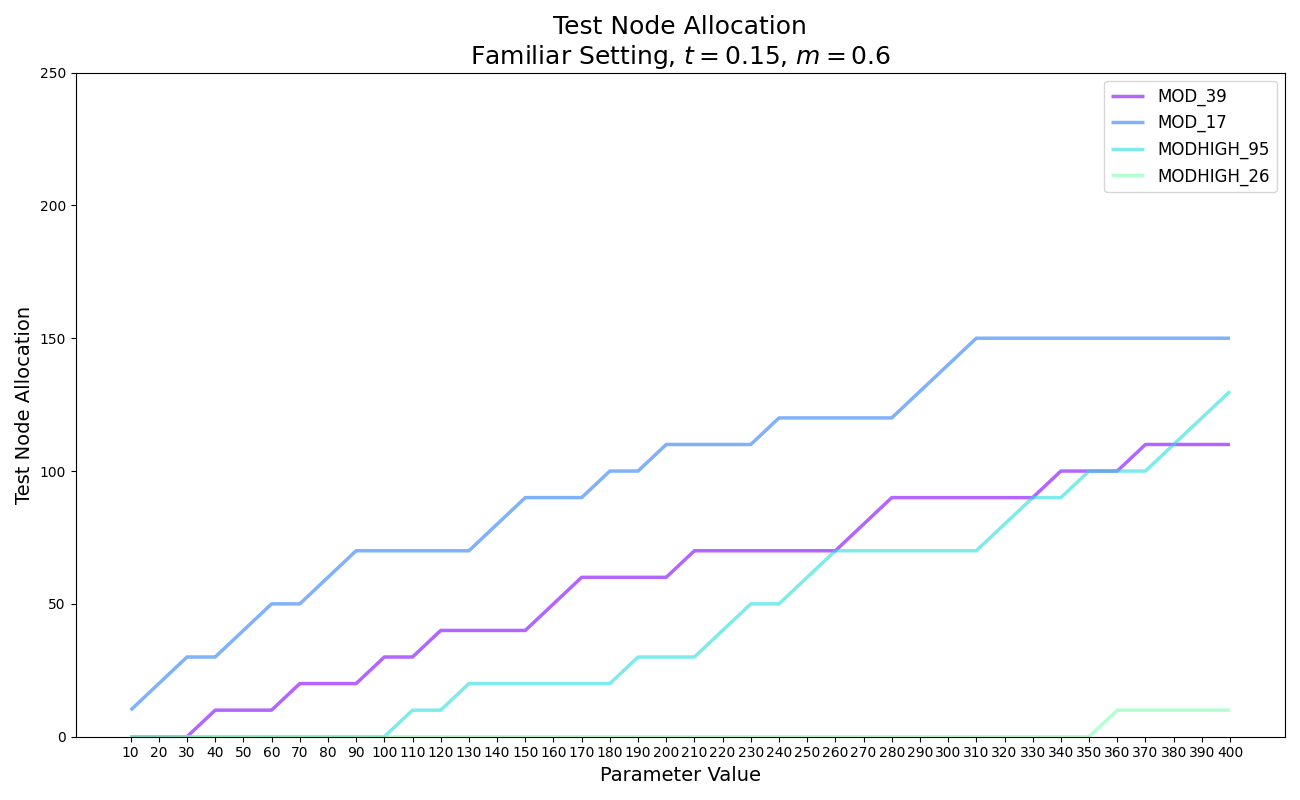
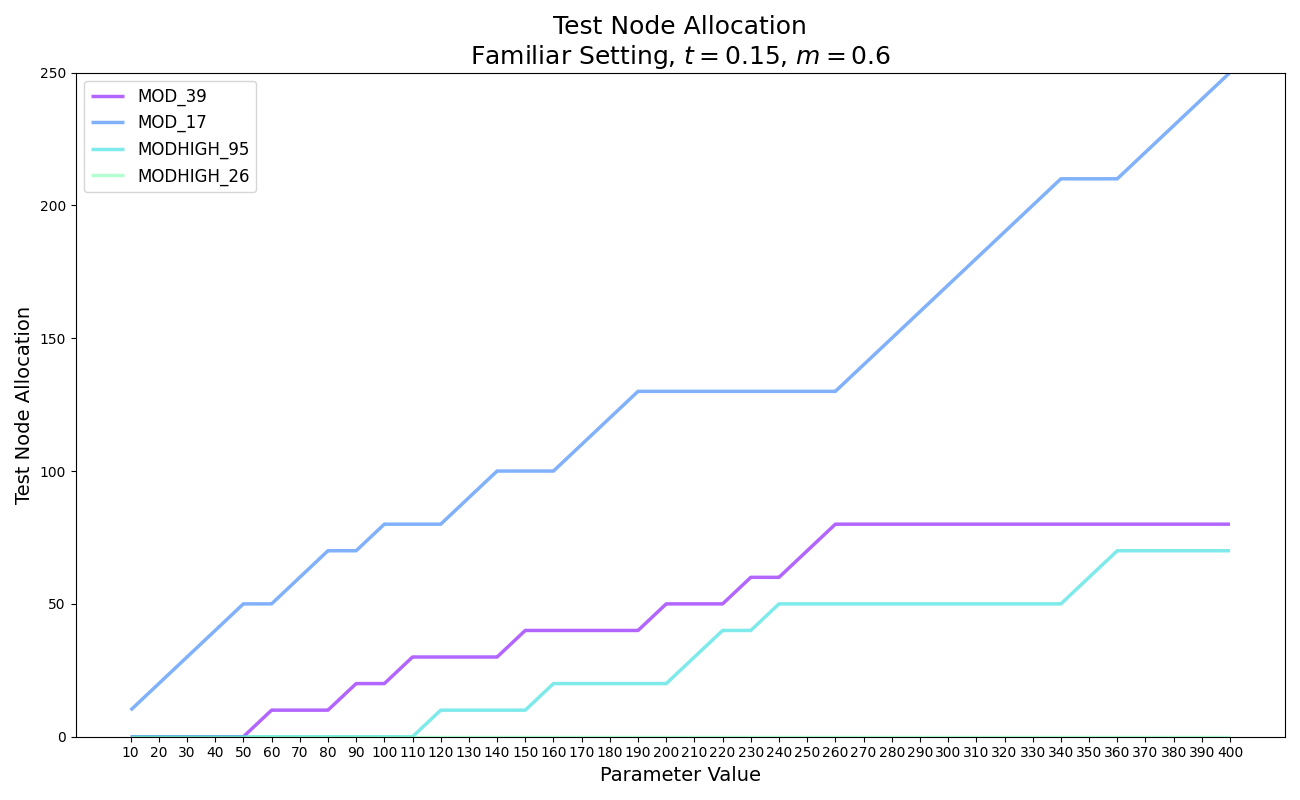
streamline draws allocation

diff --git a/bayesianexperimentation/bayesianexperimentaldesign.py b/bayesianexperimentation/bayesianexperimentaldesign.py
@@ -2637,9 +2637,8 @@ def STUDY_baselineloss():
     csdict_fam['TNnames'] = ['MOD_39', 'MOD_17', 'MODHIGH_95', 'MODHIGH_26']
     csdict_fam['SNnames'] = ['MNFR ' + str(i + 1) for i in range(numSN)]
 
-    # Build prior
+    # Build prior; establish test node risk according to assessment by regulators
     SNpriorMean = np.repeat(sps.logit(0.1), numSN)
-    # Establish test node risk according to assessment by regulators
     TNpriorMean = sps.logit(np.array([0.1, 0.1, 0.15, 0.15]))
     TNvar, SNvar = 2., 4.  # Variances for use with prior
     csdict_fam['prior'] = prior_normal_assort(np.concatenate((SNpriorMean, TNpriorMean)),
@@ -2690,25 +2689,28 @@ def STUDY_baselineloss():
         paramdict.update({'lossmatrix':lossmatrix})
         _, lossmatrix = lf.add_cand_neighbors(paramdict, csdict_fam['postSamples'], currtruthdraws)
         list_11k.append(sampf.baseloss(lossmatrix))
-        # Plot distribution of gap from 5k
-        if np.mod(rep+1,5)==0:
-            list_6k_diffs = [list_5k[i]-list_6k[i] for i in range(len(list_5k))]
-            list_10k_diffs = [list_5k[i] - list_10k[i] for i in range(len(list_5k))]
-            list_11k_diffs = [list_5k[i] - list_11k[i] for i in range(len(list_5k))]
-            plt.hist(list_6k_diffs, label='5k+1k', alpha=0.2)
-            plt.hist(list_10k_diffs, label='10k', alpha=0.2)
-            plt.hist(list_11k_diffs, label='10k+1k', alpha=0.2)
-            plt.legend()
-            plt.show()
-            plt.close()
 
+    # Plot distribution of gap from 5k
+    list_6k_diffs = [list_5k[i]-list_6k[i] for i in range(len(list_5k))]
+    list_10k_diffs = [list_5k[i] - list_10k[i] for i in range(len(list_5k))]
+    list_11k_diffs = [list_5k[i] - list_11k[i] for i in range(len(list_5k))]
 
-    # OPTIONAL store runs for later use
-    # np.save(os.path.join('casestudyoutputs', '17MAY', 'utilmatlist_familiar'), np.array(utilMatList))
-    # np.save(os.path.join('casestudyoutputs', '16MAY', 'utilmatlist_familiar'), np.array(utilMatList))
-    # OPTIONAL retrieve allocation
-    # utilMatList = np.load(os.path.join('casestudyoutputs', '16MAY', 'utilmatlist_familiar.npy'))
-    # utilMatList = np.load(os.path.join('casestudyoutputs', 'PREVIOUS', 'Familiar', 'utilmatlist_familiar.npy'))
+    np.save(os.path.join('scratchfiles','17MAY_plots','list_5k'),np.array(list_5k))
+    np.save(os.path.join('scratchfiles', '17MAY_plots', 'list_6k'), np.array(list_6k))
+    np.save(os.path.join('scratchfiles', '17MAY_plots', 'list_10k'), np.array(list_10k))
+    np.save(os.path.join('scratchfiles', '17MAY_plots', 'list_11k'), np.array(list_11k))
+
+    plt.hist([list_6k_diffs,list_10k_diffs,list_11k_diffs], label=['5k+1k','10k','10k+1k'], alpha=0.7)
+    plt.title('Histogram of loss decreases as compared with 5k-sized candidate set')
+    plt.legend()
+    plt.show()
+    plt.close()
+
+    plt.hist([list_6k, list_10k, list_11k, list_5k], label=['5k+1k', '10k', '10k+1k', '5k'], alpha=0.7,bins=20)
+    plt.title('Histogram of null loss values under different candidate set sizes')
+    plt.legend()
+    plt.show()
+    plt.close()
 
     return
 
@@ -2731,17 +2733,9 @@ def casestudy_familiar():
     from logistigate.logistigate import utilities as util
     csdict_fam = util.initDataDict(Nfam, Yfam)  # Initialize necessary logistigate keys
 
-    # todo: (REMOVE LATER) csdict_fam['TNnames'] = ['ASHANTI', 'BRONG AHAFO', 'CENTRAL', 'EASTERN REGION']
+    # Update node names
     csdict_fam['TNnames'] = ['MOD_39', 'MOD_17', 'MODHIGH_95', 'MODHIGH_26']
     csdict_fam['SNnames'] = ['MNFR ' + str(i + 1) for i in range(numSN)]
-
-    # Use observed data to form Q
-    csdict_fam['Q'] = csdict_fam['N'] / np.sum(csdict_fam['N'], axis=1).reshape(numTN, 1)
-
-    # Region catchment proportions, for market terms
-    TNcach = np.array([0.17646, 0.05752, 0.09275, 0.09488])
-    TNcach = TNcach[:4] / np.sum(TNcach[:4])
-    SNcach = np.matmul(TNcach, csdict_fam['Q'])
 
     # Build prior
     SNpriorMean = np.repeat(sps.logit(0.1), numSN)
@@ -2756,7 +2750,7 @@ def casestudy_familiar():
     # Set up MCMC
     csdict_fam['MCMCdict'] = {'MCMCtype': 'NUTS', 'Madapt': 5000, 'delta': 0.4}
     # Generate posterior draws
-    numdraws = 80000
+    numdraws = 10000
     csdict_fam['numPostSamples'] = numdraws
     np.random.seed(1000)  # To replicate draws later
     csdict_fam = methods.GeneratePostSamples(csdict_fam)
@@ -2781,7 +2775,7 @@ def casestudy_familiar():
     numcanddraws, numtruthdraws, numdatadraws = 5000, 5000, 3000
     numReps = 10  # Number of repeat runs to make
 
-    np.random.seed(10)
+    np.random.seed(10) # Set seed for MCMC draws and data generation
     '''
     # Divide original draws into numReps sets to use with utility estimation
     shufinds = np.arange(numdraws)
@@ -2794,10 +2788,8 @@ def casestudy_familiar():
         # Generate new MCMC set
         csdict_fam = methods.GeneratePostSamples(csdict_fam)
         # Pull relevant draws
-        #currcanddraws = csdict_fam['postSamples'][indsList[rep]]
-        currcanddraws = csdict_fam['postSamples'][choice(np.arange(numdraws), size=numcanddraws, replace=False)]
-        currtruthdraws = currcanddraws[choice(np.arange(numcanddraws), size=numtruthdraws, replace=False)]
-        currdatadraws = currtruthdraws[choice(np.arange(numtruthdraws), size=numdatadraws, replace=False)]
+        currcanddraws, currtruthdraws, currdatadraws = util.distribute_draws(csdict_fam['postSamples'], numcanddraws,
+                                                                             numtruthdraws, numdatadraws)
         # Update paramdict
         paramdict.update({'canddraws': currcanddraws, 'truthdraws': currtruthdraws, 'datadraws': currdatadraws})
         # Build loss matrix
@@ -3180,10 +3172,11 @@ def casestudy_familiar():
     heur_utillist, unif_utillist, rudi_utillist = [], [], []  # Initialize storage lists
     numReps = 10
     for rep in range(numReps):
+        # Generate new MCMC draws
+        csdict_fam = methods.GeneratePostSamples(csdict_fam)
         # Pull relevant draws
-        currcanddraws = csdict_fam['postSamples'][indsList[rep]]
-        currtruthdraws = currcanddraws[choice(np.arange(numcanddraws), size=numtruthdraws, replace=False)]
-        currdatadraws = currtruthdraws[choice(np.arange(numtruthdraws), size=numdatadraws, replace=False)]
+        currcanddraws, currtruthdraws, currdatadraws = util.distribute_draws(csdict_fam['postSamples'], numcanddraws,
+                                                                             numtruthdraws, numdatadraws)
         # Update paramdict
         paramdict.update({'canddraws': currcanddraws, 'truthdraws': currtruthdraws, 'datadraws': currdatadraws})
         # Build loss matrix
@@ -3241,19 +3234,11 @@ def casestudy_familiar_market():
                      [0., 0., 2., 2., 0., 1., 1., 0., 0., 1., 0., 0., 1.],
                      [0., 0., 15., 3., 2., 0., 0., 2., 0., 1., 1., 2., 5.],
                      [0., 0., 5., 2., 0., 0., 0., 0., 0., 0., 0., 0., 0.]])
-    # Some summaries
-    # TNtesttotals = np.sum(Nfam, axis=1)
-    # TNsfptotals = np.sum(Yfam, axis=1)
-    # TNrates = np.divide(TNsfptotals,TNtesttotals)
     (numTN, numSN) = Nfam.shape  # For later use
-    from logistigate.logistigate import utilities as util
     csdict_fam = util.initDataDict(Nfam, Yfam)  # Initialize necessary logistigate keys
 
     csdict_fam['TNnames'] = ['MOD_39', 'MOD_17', 'MODHIGH_95', 'MODHIGH_26']
     csdict_fam['SNnames'] = ['MNFR ' + str(i + 1) for i in range(numSN)]
-
-    # Use observed data to form Q
-    csdict_fam['Q'] = csdict_fam['N'] / np.sum(csdict_fam['N'], axis=1).reshape(numTN, 1)
 
     # Region catchment proportions, for market terms
     TNcach = np.array([0.17646, 0.05752, 0.09275, 0.09488])
@@ -3300,13 +3285,11 @@ def casestudy_familiar_market():
 
     utilMatList = []  # Initialize results list
     for rep in range(numReps):
-        # Generate new MCMC set
+        # Generate new MCMC draws
         csdict_fam = methods.GeneratePostSamples(csdict_fam)
         # Pull relevant draws
-        #currcanddraws = csdict_fam['postSamples'][indsList[rep]]
-        currcanddraws = csdict_fam['postSamples'][choice(np.arange(numdraws), size=numcanddraws, replace=False)]
-        currtruthdraws = currcanddraws[choice(np.arange(numcanddraws), size=numtruthdraws, replace=False)]
-        currdatadraws = currtruthdraws[choice(np.arange(numtruthdraws), size=numdatadraws, replace=False)]
+        currcanddraws, currtruthdraws, currdatadraws = util.distribute_draws(csdict_fam['postSamples'], numcanddraws,
+                                                                             numtruthdraws, numdatadraws)
         # Update paramdict
         paramdict.update({'canddraws': currcanddraws, 'truthdraws': currtruthdraws, 'datadraws': currdatadraws})
         # Build loss matrix
@@ -3371,10 +3354,11 @@ def casestudy_familiar_market():
     heur_utillist, unif_utillist, rudi_utillist = [], [], []  # Initialize storage lists
     numReps = 10
     for rep in range(numReps):
+        # Generate new MCMC draws
+        csdict_fam = methods.GeneratePostSamples(csdict_fam)
         # Pull relevant draws
-        currcanddraws = csdict_fam['postSamples'][indsList[rep]]
-        currtruthdraws = currcanddraws[choice(np.arange(numcanddraws), size=numtruthdraws, replace=False)]
-        currdatadraws = currtruthdraws[choice(np.arange(numtruthdraws), size=numdatadraws, replace=False)]
+        currcanddraws, currtruthdraws, currdatadraws = util.distribute_draws(csdict_fam['postSamples'], numcanddraws,
+                                                                             numtruthdraws, numdatadraws)
         # Update paramdict
         paramdict.update({'canddraws': currcanddraws, 'truthdraws': currtruthdraws, 'datadraws': currdatadraws})
         # Build loss matrix
@@ -3441,10 +3425,7 @@ def casestudy_exploratory():
                       [0., 0., 0., 0., 0., 0., 0., 0., 0., 0., 0., 0., 0.],
                       [0., 0., 0., 0., 0., 0., 0., 0., 0., 0., 0., 0., 0.],
                       [0., 0., 0., 0., 0., 0., 0., 0., 0., 0., 0., 0., 0.]])
-
     (numTN, numSN) = Nexpl.shape
-
-    from logistigate.logistigate import utilities as util
     csdict_expl = util.initDataDict(Nexpl, Yexpl)  # Initialize necessary logistigate keys
 
     csdict_expl['TNnames'] = ['MOD_39', 'MOD_17', 'MODHIGH_95', 'MODHIGH_26',
@@ -3455,14 +3436,8 @@ def casestudy_exploratory():
     numBoot = 44  # Average across each TN in original data set
     SNprobs = np.sum(csdict_expl['N'], axis=0) / np.sum(csdict_expl['N'])
     np.random.seed(33)
-    Qvecs = np.random.multinomial(numBoot, SNprobs, size=numTN - 4) / numBoot
-    csdict_expl['Q'] = np.vstack((csdict_expl['N'][:4] / np.sum(csdict_expl['N'][:4], axis=1).reshape(4, 1), Qvecs))
-
-    # Region catchment proportions, for market terms
-    TNcach = np.array([0.17646, 0.05752, 0.09275, 0.09488, 0.17695, 0.22799, 0.07805, 0.0954])
-    tempQ = csdict_expl['N'][:4] / np.sum(csdict_expl['N'][:4], axis=1).reshape(4, 1)
-    tempTNcach = TNcach[:4] / np.sum(TNcach[:4])
-    SNcach = np.matmul(tempTNcach, tempQ)
+    Qvecs = np.random.multinomial(numBoot, SNprobs, size=4) / numBoot
+    csdict_expl['Q'] = np.vstack((csdict_expl['Q'][:4], Qvecs))
 
     # Build prior
     SNpriorMean = np.repeat(sps.logit(0.1), numSN)
@@ -3509,12 +3484,10 @@ def casestudy_exploratory():
     utilMatList = []  # Initialize results list
     for rep in range(numReps):
         # Generate new MCMC set
-        csdict_fam = methods.GeneratePostSamples(csdict_expl)
+        csdict_expl = methods.GeneratePostSamples(csdict_expl)
         # Pull relevant draws
-        #currcanddraws = csdict_fam['postSamples'][indsList[rep]]
-        currcanddraws = csdict_expl['postSamples'][choice(np.arange(numdraws), size=numcanddraws, replace=False)]
-        currtruthdraws = currcanddraws[choice(np.arange(numcanddraws), size=numtruthdraws, replace=False)]
-        currdatadraws = currtruthdraws[choice(np.arange(numtruthdraws), size=numdatadraws, replace=False)]
+        currcanddraws, currtruthdraws, currdatadraws = util.distribute_draws(csdict_expl['postSamples'], numcanddraws,
+                                                                             numtruthdraws, numdatadraws)
         # Update paramdict
         paramdict.update({'canddraws': currcanddraws, 'truthdraws': currtruthdraws, 'datadraws': currdatadraws})
         # Build loss matrix
@@ -3568,9 +3541,9 @@ def casestudy_exploratory():
                    labels=csdict_expl['TNnames'], titlestr='Exploratory Setting, $t=0.15$, $m=0.6$', allocmax=250,
                    colors=cm.rainbow(np.linspace(0, 0.5, numTN)), dashes=[[1, 0] for tn in range(numTN)])
 
+    #########
     # Now get comprehensive utilities for different sampling plans; use different set of MCMC draws
-    np.random.seed(11)
-    csdict_fam = methods.GeneratePostSamples(csdict_expl)
+    #########
     np.random.seed(12)
     shufinds = np.arange(numdraws)
     np.random.shuffle(shufinds)
@@ -3579,10 +3552,11 @@ def casestudy_exploratory():
     heur_utillist, unif_utillist, rudi_utillist = [], [], []  # Initialize storage lists
     numReps = 10
     for rep in range(numReps):
+        # Generate new MCMC set
+        csdict_expl = methods.GeneratePostSamples(csdict_expl)
         # Pull relevant draws
-        currcanddraws = csdict_expl['postSamples'][indsList[rep]]
-        currtruthdraws = currcanddraws[choice(np.arange(numcanddraws), size=numtruthdraws, replace=False)]
-        currdatadraws = currtruthdraws[choice(np.arange(numtruthdraws), size=numdatadraws, replace=False)]
+        currcanddraws, currtruthdraws, currdatadraws = util.distribute_draws(csdict_expl['postSamples'], numcanddraws,
+                                                                             numtruthdraws, numdatadraws)
         # Update paramdict
         paramdict.update({'canddraws': currcanddraws, 'truthdraws': currtruthdraws, 'datadraws': currdatadraws})
         # Build loss matrix
@@ -3662,8 +3636,8 @@ def casestudy_exploratory_market():
     numBoot = 44  # Average across each TN in original data set
     SNprobs = np.sum(csdict_expl['N'], axis=0) / np.sum(csdict_expl['N'])
     np.random.seed(33)
-    Qvecs = np.random.multinomial(numBoot, SNprobs, size=numTN - 4) / numBoot
-    csdict_expl['Q'] = np.vstack((csdict_expl['N'][:4] / np.sum(csdict_expl['N'][:4], axis=1).reshape(4, 1), Qvecs))
+    Qvecs = np.random.multinomial(numBoot, SNprobs, size=4) / numBoot
+    csdict_expl['Q'] = np.vstack((csdict_expl['Q'][:4], Qvecs))
 
     # Region catchment proportions, for market terms
     TNcach = np.array([0.17646, 0.05752, 0.09275, 0.09488, 0.17695, 0.22799, 0.07805, 0.0954])
@@ -3716,12 +3690,10 @@ def casestudy_exploratory_market():
     utilMatList = []  # Initialize results list
     for rep in range(numReps):
         # Generate new MCMC set
-        csdict_fam = methods.GeneratePostSamples(csdict_expl)
+        csdict_expl = methods.GeneratePostSamples(csdict_expl)
         # Pull relevant draws
-        # currcanddraws = csdict_fam['postSamples'][indsList[rep]]
-        currcanddraws = csdict_expl['postSamples'][choice(np.arange(numdraws), size=numcanddraws, replace=False)]
-        currtruthdraws = currcanddraws[choice(np.arange(numcanddraws), size=numtruthdraws, replace=False)]
-        currdatadraws = currtruthdraws[choice(np.arange(numtruthdraws), size=numdatadraws, replace=False)]
+        currcanddraws, currtruthdraws, currdatadraws = util.distribute_draws(csdict_expl['postSamples'], numcanddraws,
+                                                                             numtruthdraws, numdatadraws)
         # Update paramdict
         paramdict.update({'canddraws': currcanddraws, 'truthdraws': currtruthdraws, 'datadraws': currdatadraws})
         # Build loss matrix
@@ -3777,7 +3749,7 @@ def casestudy_exploratory_market():
 
     # Now get comprehensive utilities for different sampling plans; use different set of MCMC draws
     np.random.seed(11)
-    csdict_fam = methods.GeneratePostSamples(csdict_expl)
+    csdict_expl = methods.GeneratePostSamples(csdict_expl)
     np.random.seed(12)
     shufinds = np.arange(numdraws)
     np.random.shuffle(shufinds)
@@ -3786,10 +3758,11 @@ def casestudy_exploratory_market():
     heur_utillist, unif_utillist, rudi_utillist = [], [], []  # Initialize storage lists
     numReps = 10
     for rep in range(numReps):
+        # Get new MCMC draws
+        csdict_expl = methods.GeneratePostSamples(csdict_expl)
         # Pull relevant draws
-        currcanddraws = csdict_expl['postSamples'][indsList[rep]]
-        currtruthdraws = currcanddraws[choice(np.arange(numcanddraws), size=numtruthdraws, replace=False)]
-        currdatadraws = currtruthdraws[choice(np.arange(numtruthdraws), size=numdatadraws, replace=False)]
+        currcanddraws, currtruthdraws, currdatadraws = util.distribute_draws(csdict_expl['postSamples'], numcanddraws,
+                                                                             numtruthdraws, numdatadraws)
         # Update paramdict
         paramdict.update({'canddraws': currcanddraws, 'truthdraws': currtruthdraws, 'datadraws': currdatadraws})
         # Build loss matrix
@@ -3837,6 +3810,8 @@ def casestudy_exploratory_market():
     return
 
 
+
+
 def casestudy_sensitivity():
     """
     Use the Exploratory setting to probe different choices and parameters. We inspect allocations at 180 tests (the
@@ -3873,8 +3848,8 @@ def casestudy_sensitivity():
     numBoot = 44  # Average across each TN in original data set
     SNprobs = np.sum(csdict_expl['N'], axis=0) / np.sum(csdict_expl['N'])
     np.random.seed(33)
-    Qvecs = np.random.multinomial(numBoot, SNprobs, size=numTN - 4) / numBoot
-    csdict_expl['Q'] = np.vstack((csdict_expl['N'][:4] / np.sum(csdict_expl['N'][:4], axis=1).reshape(4, 1), Qvecs))
+    Qvecs = np.random.multinomial(numBoot, SNprobs, size=4) / numBoot
+    csdict_expl['Q'] = np.vstack((csdict_expl['Q'][:4], Qvecs))
 
     # Region catchment proportions, for market terms
     TNcach = np.array([0.17646, 0.05752, 0.09275, 0.09488, 0.17695, 0.22799, 0.07805, 0.0954])
